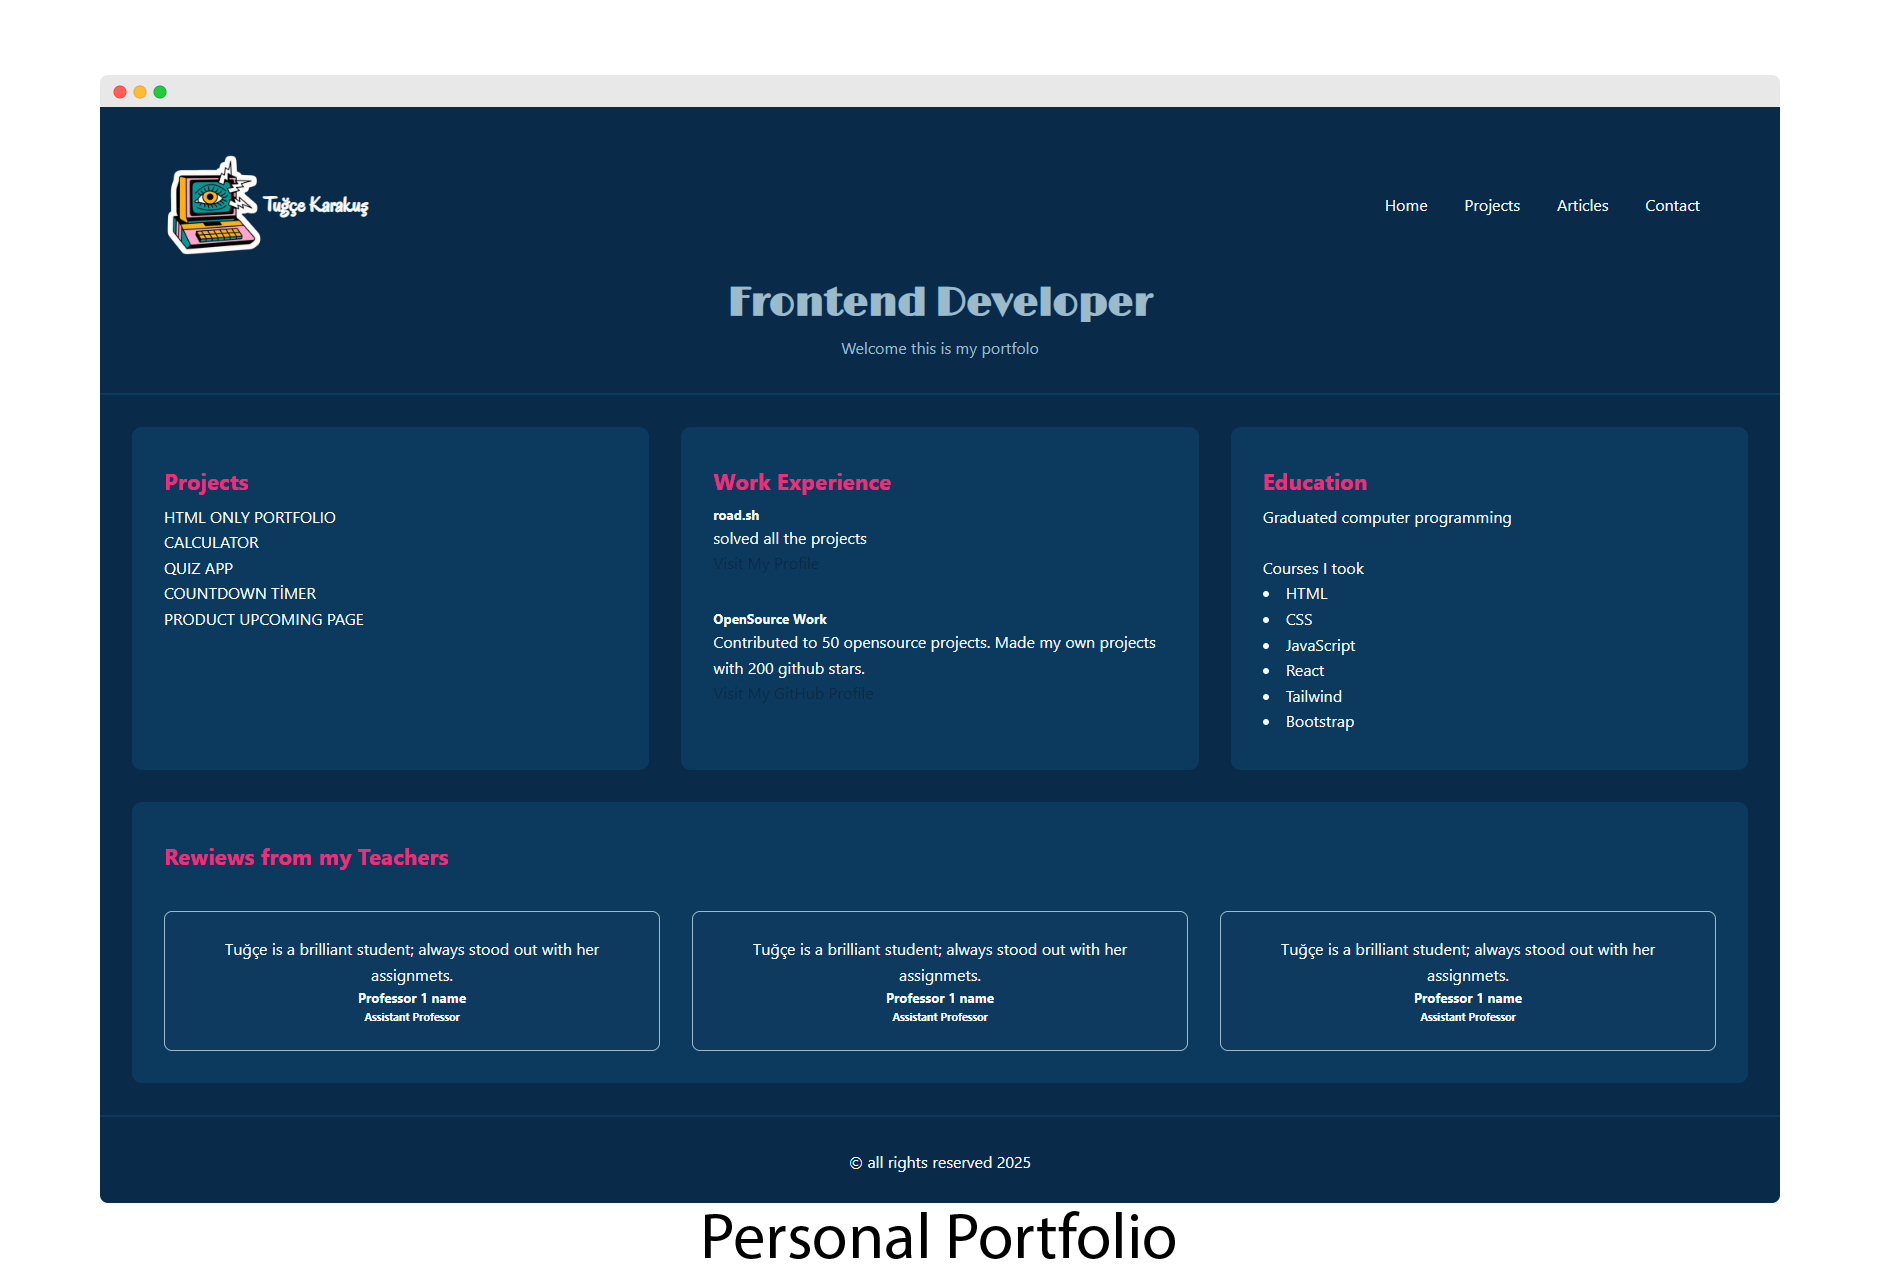
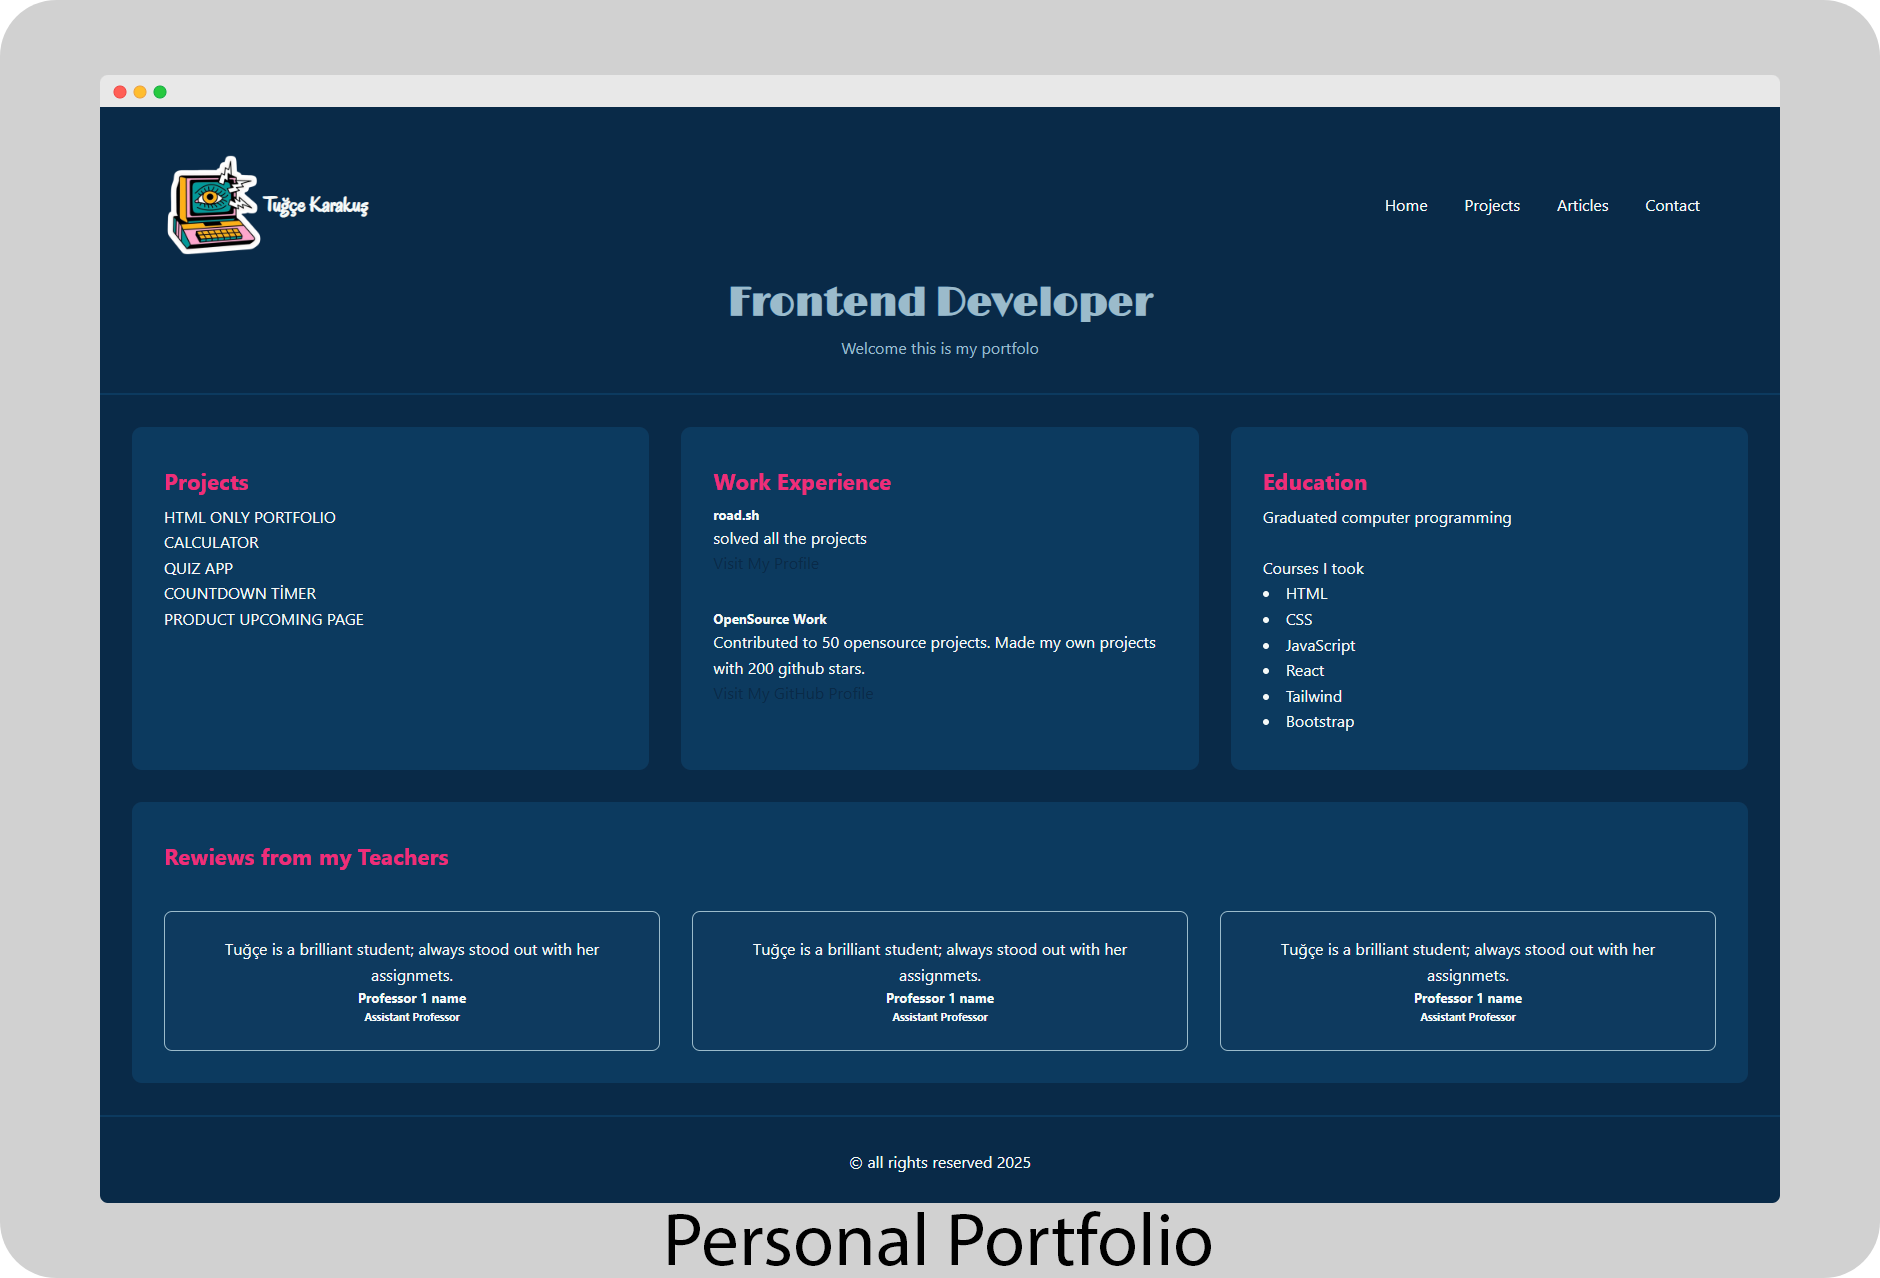
Readme document images  updated

Changed region(s): [[0.0, 0.0, 1.0, 1.0]]

diff --git a/README.md b/README.md
@@ -8,3 +8,18 @@ This repository contains front-end projects built following the [roadmap.sh](htt
 - [Basic HTML Website](https://roadmap.sh/projects/basic-html-website)
 - [Personal Portfolio](https://roadmap.sh/projects/portfolio-website)
 
+## Demo Previews
+
+Click any image to view that solution.
+
+<a href="https://github.com/tugcekarakuss/roadmap.sh-frontend-solutions/tree/main/01-single-page-cv">
+  <img src="./images/single-page-cv.png" alt="Single Page CV" width="400"/>
+</a>
+
+<a href="https://github.com/tugcekarakuss/roadmap.sh-frontend-solutions/tree/main/02-basic-html-website">
+  <img src="./images/basic-html-website.png" alt="Basic HTML Website" width="400"/>
+</a>
+
+<a href="https://github.com/tugcekarakuss/roadmap.sh-frontend-solutions/tree/main/03-personal-portfolio">
+  <img src="./images/personal-portfolio.png" alt="Personal Portfolio" width="400"/>
+</a>
